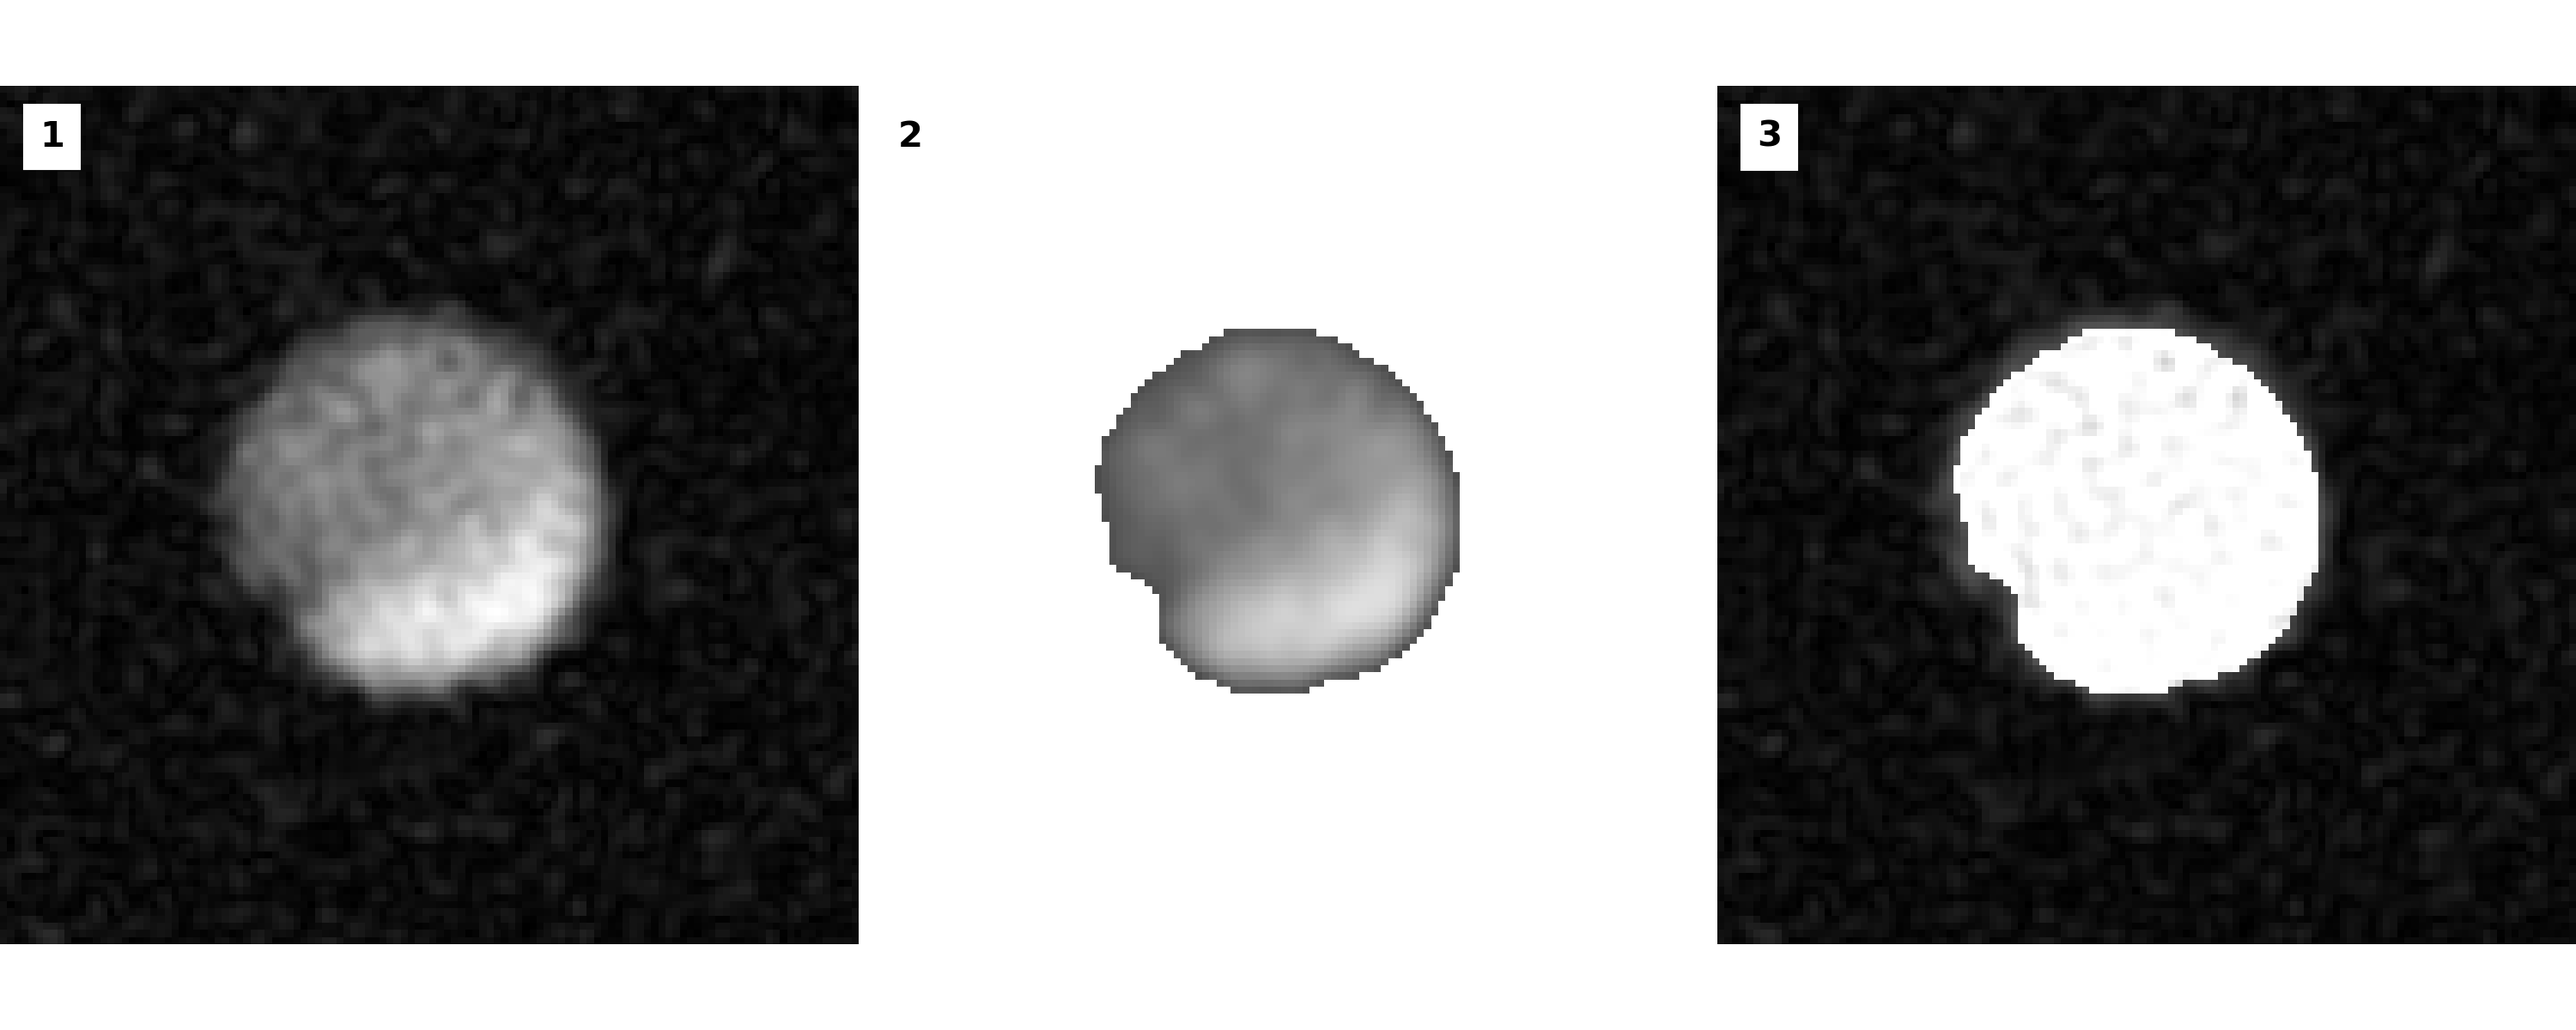
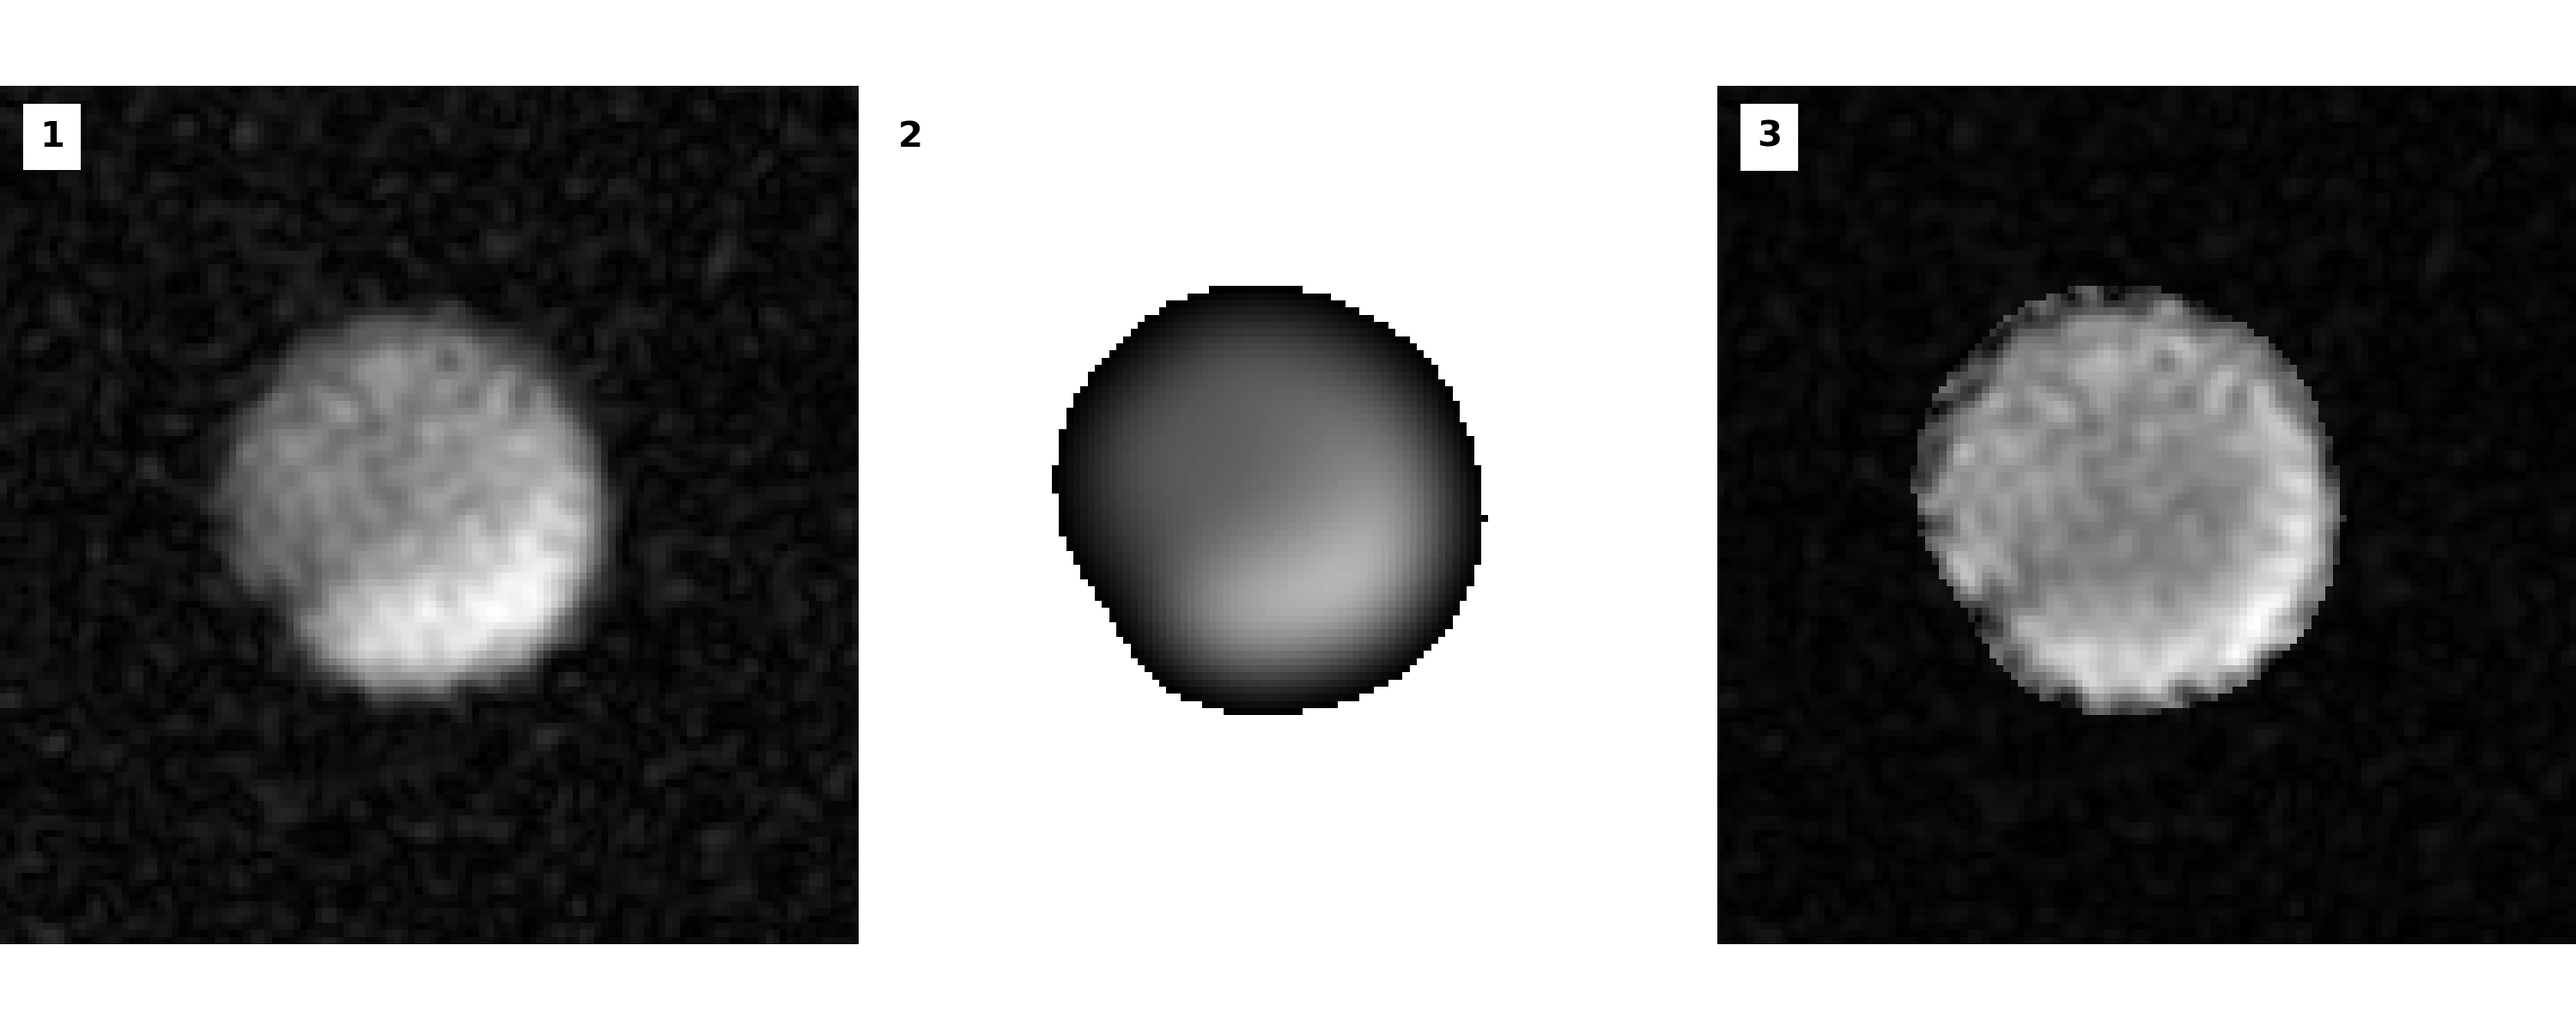
stamp explanation and only 197 blurred corr

Changed region(s): [[0.744, 0.2775, 0.93, 0.7092], [0.403, 0.2775, 0.589, 0.7092]]

diff --git a/MRImages.py b/MRImages.py
@@ -158,28 +158,26 @@ for k, coil in enumerate(coils):
 plt.close("all")
 
 # B1 CORRECTION - blurred version
-for coil in coils[-2:]:
-    for r in readouts:
-        image = np.load(numpy_files_path+f"{coil}_{r}_TG50.npy")#_TG50
-        image = norm_magn_image(image)
-        ind = int(len(image)/2)
-        image_slice = image[ind]
-        #image_slice = np.ma.where(image_slice<0.01, np.ones_like(image_slice)*0.01, image_slice)
-        fig, axs = plt.subplots(1, 3, figsize=(10, 4))
-        axs[0].imshow(image_slice, cmap=my_cmap)
-        blurred_slice = blurring_2D(image_slice, kernel_size=3, padding=1, rep=3)
-        blurred_norm = blurred_slice#/np.max(blurred_slice)
-        blurred_norm = np.ma.where(blurred_slice<0.3, np.ones_like(blurred_slice), blurred_slice)
-        #blurred_norm_region = np.ma.where(blurred_norm>0.1, blurred_norm, np.ones_like(blurred_norm))
-        blurr_div = image_slice/blurred_norm
-        axs[1].imshow(blurred_norm, cmap=my_cmap, vmin=0, vmax=1)
-        axs[2].imshow(blurr_div, cmap=my_cmap, vmin=0, vmax=1)
-        for i,ax in enumerate(axs):
-            ax.axis("off")
-            ax.text(5, 8, f"{i+1}", color="k", fontweight="bold", backgroundcolor="w")
-        plt.tight_layout(pad=0)
-        #fig.savefig(f"{coil}_{r}_blurr_corr.png", dpi=300 ,transparent=True)
-        #plt.show()
+for coil in coils[:-2]: #[-2:]
+    r="197"
+    image = np.load(numpy_files_path+f"{coil}_{r}_X.npy") #_TG50
+    image = norm_magn_image(image)
+    ind = int(len(image)/2)
+    image_slice = image[ind]
+    fig, axs = plt.subplots(1, 3, figsize=(10, 4))
+    axs[0].imshow(image_slice, cmap=my_cmap)
+    blurred_slice = blurring_2D(image_slice, kernel_size=8, padding=1, rep=3)
+    blurred_norm = blurred_slice/np.max(blurred_slice)
+    blurred_norm = np.ma.where(blurred_slice<0.15, np.ones_like(blurred_slice), blurred_slice)
+    blurr_div = image_slice/blurred_norm
+    axs[1].imshow(blurred_norm, cmap=my_cmap)
+    axs[2].imshow(blurr_div, cmap=my_cmap)
+    for i,ax in enumerate(axs):
+        ax.axis("off")
+        ax.text(5, 8, f"{i+1}", color="k", fontweight="bold", backgroundcolor="w")
+    plt.tight_layout(pad=0)
+    #fig.savefig(f"{coil}_{r}_blurr_corr.png", dpi=300 ,transparent=True)
+    plt.show()
 plt.close("all")
 
 # B1 CORRECTION - b1 field map
@@ -306,11 +304,11 @@ for i, lines in enumerate(coil_lines):
         offset_from_coil = 1.2
         ax.set(xlim=(0, 22), ylim=(0, 1))
         im = ax.imshow(phantom_img_theory, extent=[17,20,0.5,0.65], aspect="auto", cmap="Greys", vmin=-2, vmax=1) # (xmin, xmax, ymin, ymax)
+        ax.plot([17+(20-17)/2, 17+(20-17)/2], [0.5, 0.65], "k-")
         ax.axvspan(offset_from_coil, offset_from_coil+phantom_d, facecolor="lightgray", alpha=0.1)
         plt.legend()
-        #plt.grid(True, zorder=10)
         #plt.savefig( f"3Dcones{i+1}_line_plots.png", dpi=300, transparent=True)
-plt.show()
+#plt.show()
 plt.close("all")
 
 
@@ -340,5 +338,3 @@ plt.close("all")
 # # Connect buttons to update functions
 # next_button.on_clicked(lambda event: update_plot(forward=True))
 # prev_button.on_clicked(lambda event: update_plot(forward=False))
-
-
